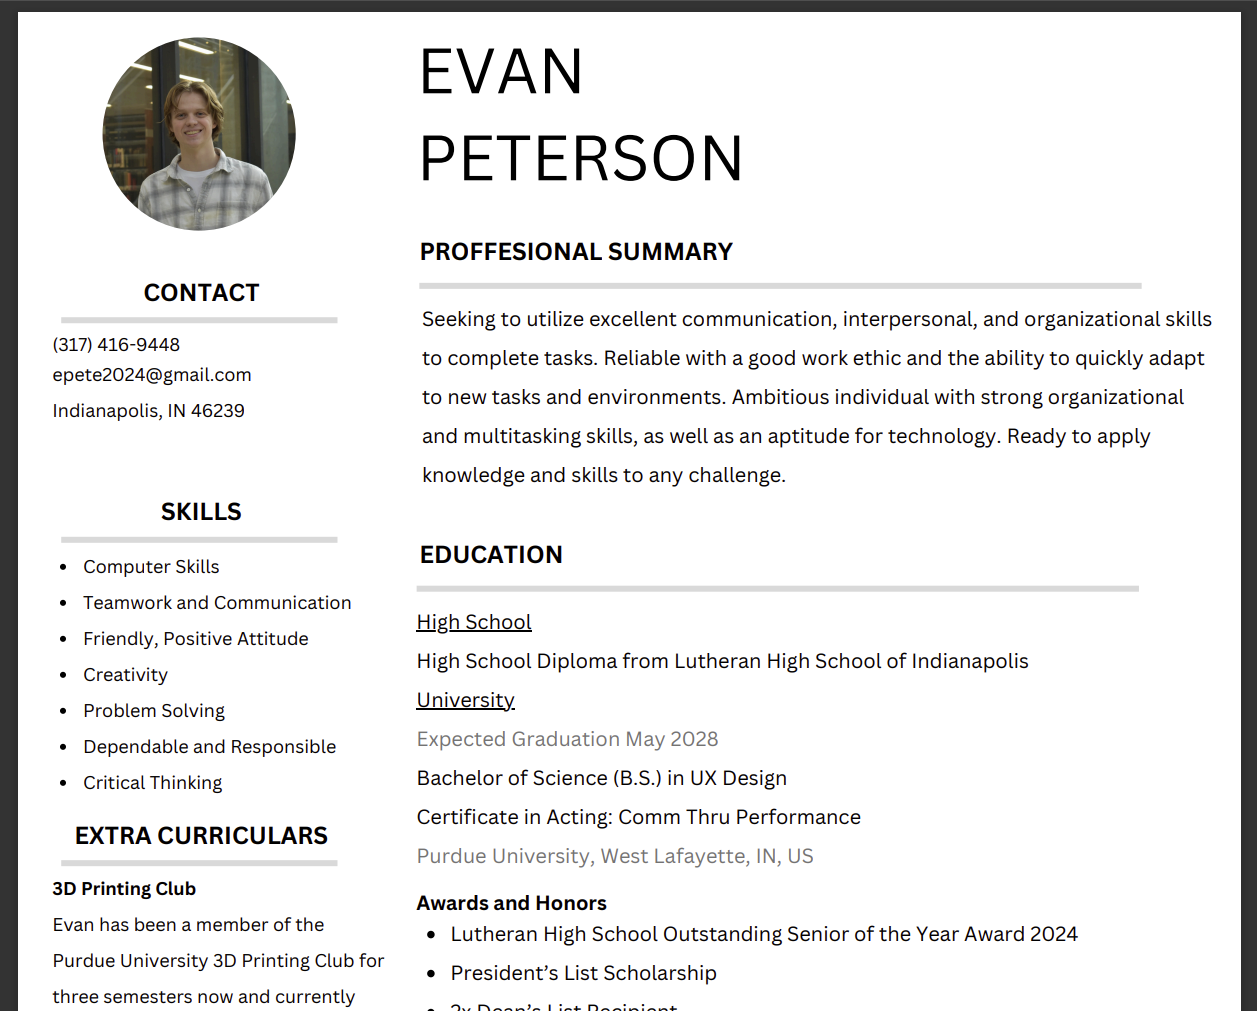
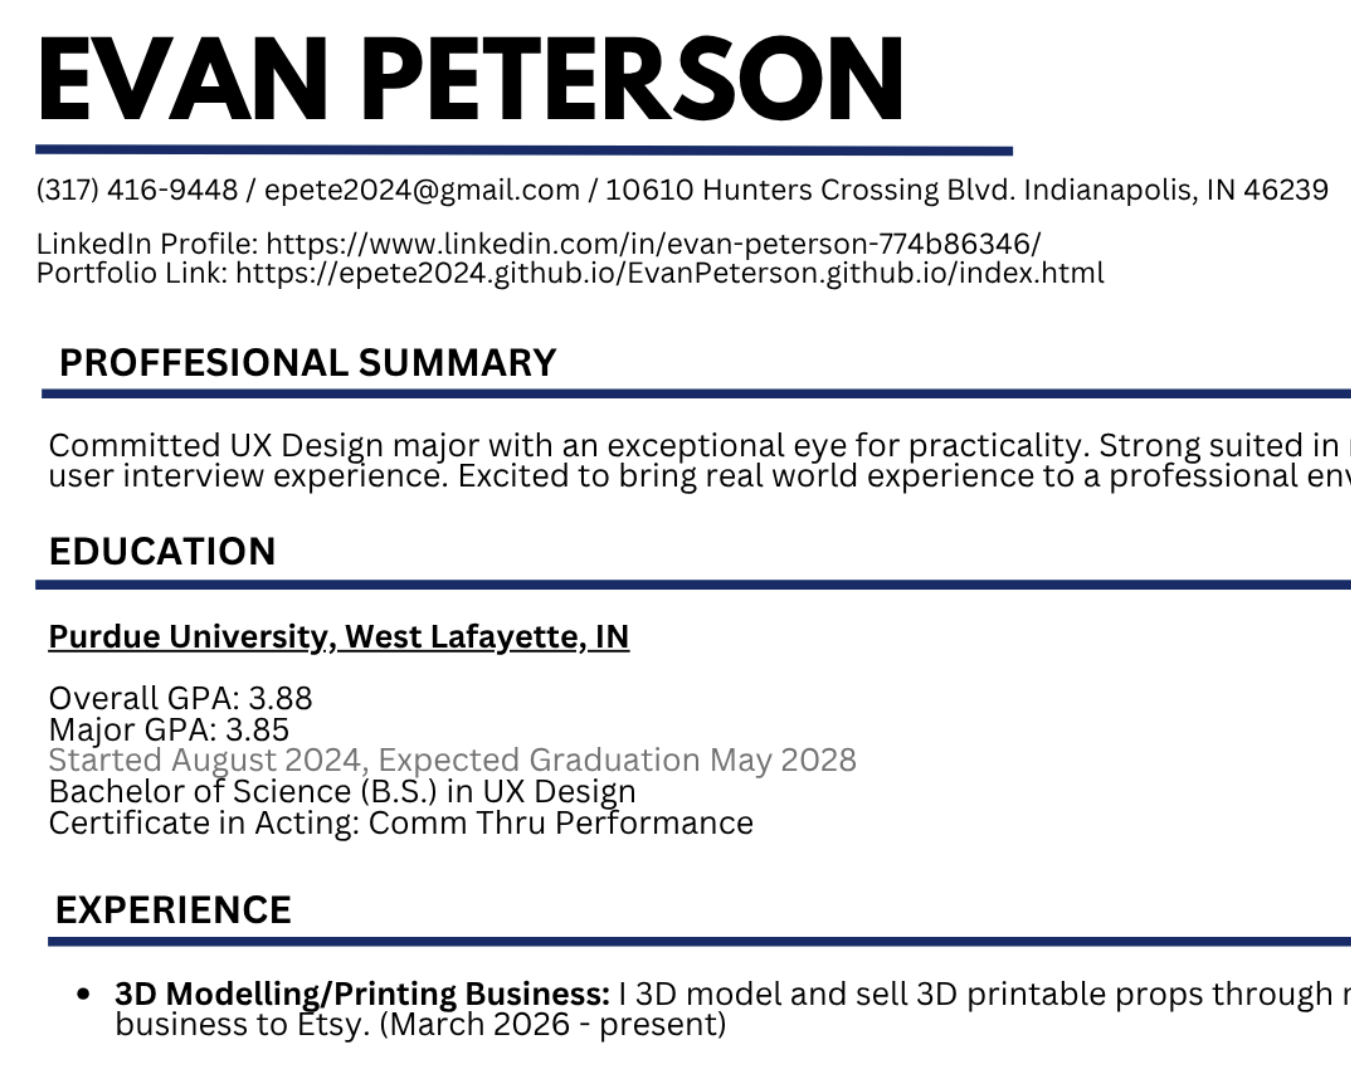
Resume update

Changed region(s): [[0.0, 0.0, 1.0, 1.0]]

diff --git a/resume.html b/resume.html
@@ -46,7 +46,7 @@
     <div class="container mt-5">
   <div class="row">
     <div class="col-lg-12">
-      <img src="images/(Revision 2)Evan_Peterson_Resume.pdf" alt="Banner" class="fluid w-100">
+      <img src="images/Resume.png" alt="Banner" class="fluid w-100">
     </div>
     </div>
 
